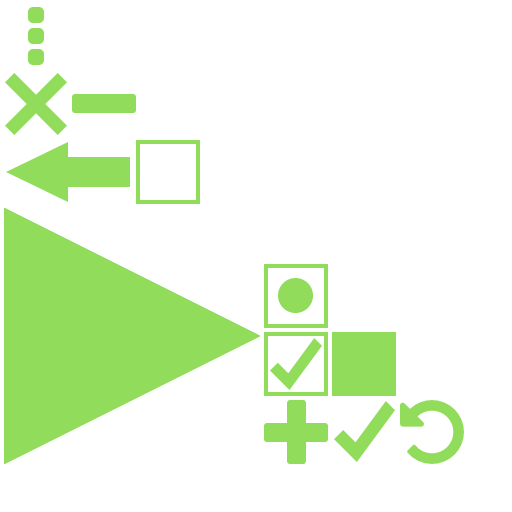
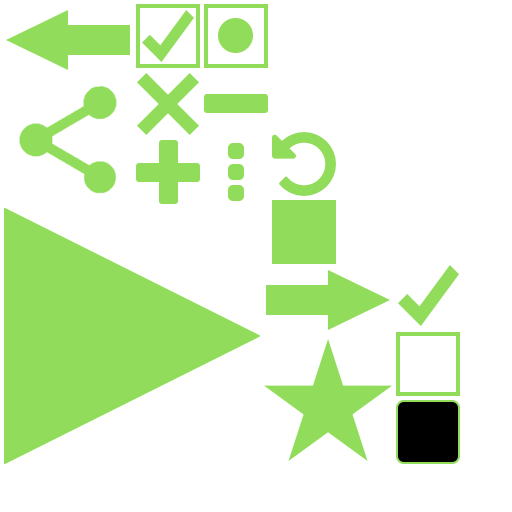
Added a WinDialog to the GameScreen. Changed the GameScreen's button stage to a general hud stage. Changed the look of buttons and dialogs.

Changed region(s): [[0.5, 0.25, 0.9062, 0.9062], [0.0, 0.0, 0.5312, 0.4062], [0.4375, 0.2812, 0.5, 0.4062]]

diff --git a/core/src/com/mare5x/chargehockey/GameScreen.java b/core/src/com/mare5x/chargehockey/GameScreen.java
@@ -9,9 +9,15 @@ import com.badlogic.gdx.graphics.GL20;
 import com.badlogic.gdx.graphics.OrthographicCamera;
 import com.badlogic.gdx.input.GestureDetector;
 import com.badlogic.gdx.math.Vector2;
+import com.badlogic.gdx.scenes.scene2d.Actor;
 import com.badlogic.gdx.scenes.scene2d.InputEvent;
+import com.badlogic.gdx.scenes.scene2d.InputListener;
 import com.badlogic.gdx.scenes.scene2d.Stage;
 import com.badlogic.gdx.scenes.scene2d.ui.Button;
+import com.badlogic.gdx.scenes.scene2d.ui.Dialog;
+import com.badlogic.gdx.scenes.scene2d.ui.Image;
+import com.badlogic.gdx.scenes.scene2d.ui.Label;
+import com.badlogic.gdx.scenes.scene2d.ui.Skin;
 import com.badlogic.gdx.scenes.scene2d.ui.Table;
 import com.badlogic.gdx.scenes.scene2d.ui.Value;
 import com.badlogic.gdx.scenes.scene2d.utils.ClickListener;
@@ -21,11 +27,15 @@ import com.badlogic.gdx.utils.viewport.StretchViewport;
 
 
 class GameScreen implements Screen {
+    private enum WinDialogBUTTON {
+        BACK, SHARE, NEXT
+    }
+
     private final ChargeHockeyGame game;
 
     private final GameLogic game_logic;
 
-    private final Stage game_stage, button_stage;
+    private final Stage game_stage, hud_stage;
     private final OrthographicCamera camera;
     private final GameCameraController camera_controller;
 
@@ -52,10 +62,13 @@ class GameScreen implements Screen {
         fbo.set_draw_pucks(false);
         fbo.update(game.batch);
 
+        final WinDialog win_dialog = new WinDialog("WIN", game.skin);
+
         game_logic = new GameLogic(game, game_stage, level, new GameLogic.ResultCallback() {
             @Override
             public void win() {
                 toggle_playing();
+                win_dialog.show(hud_stage);
             }
 
             @Override
@@ -65,7 +78,7 @@ class GameScreen implements Screen {
             }
         });
 
-        button_stage = new Stage(new StretchViewport(Gdx.graphics.getWidth(), Gdx.graphics.getHeight() * 0.2f), game.batch);
+        hud_stage = new Stage(new StretchViewport(Gdx.graphics.getWidth(), Gdx.graphics.getHeight()), game.batch);
 
         final Button menu_button = new Button(game.skin, "menu");
         menu_button.addListener(new ClickListener() {
@@ -103,15 +116,20 @@ class GameScreen implements Screen {
         });
         play_button.pad(10);
 
+        Table hud_table = new Table();
+        hud_table.setFillParent(true);
+
         Table button_table = new Table();
-        button_table.setFillParent(true);
         button_table.setBackground(game.skin.getDrawable("pixels/px_black"));
         button_table.add(play_button).size(Value.percentHeight(0.5f, button_table)).uniform().pad(15);
         button_table.add(charge_pos_button).pad(15).uniform().fill();
         button_table.add(charge_neg_button).pad(15).uniform().fill();
         button_table.add(menu_button).pad(15).uniform().fill();
 
-        button_stage.addActor(button_table);
+        hud_table.add().expand().fill().row();
+        hud_table.add(button_table).height(Value.percentHeight(0.2f, hud_table)).expandX().fill();
+
+        hud_stage.addActor(hud_table);
 
         camera_controller = new GameCameraController(camera);
         InputAdapter back_key_processor = new InputAdapter() {  // same as menu_button
@@ -123,7 +141,7 @@ class GameScreen implements Screen {
                 return true;
             }
         };
-        multiplexer = new InputMultiplexer(game_stage, new GestureDetector(camera_controller), button_stage, back_key_processor);
+        multiplexer = new InputMultiplexer(hud_stage, game_stage, new GestureDetector(camera_controller), back_key_processor);
     }
 
     private void toggle_playing() {
@@ -151,6 +169,7 @@ class GameScreen implements Screen {
 
     void restart_level() {
         game_logic.reset();
+        fbo.update(game.batch);
     }
 
     @Override
@@ -200,16 +219,16 @@ class GameScreen implements Screen {
 
         game_stage.draw();
 
-        button_stage.getViewport().apply();
-        button_stage.act();
-        button_stage.draw();
+        hud_stage.getViewport().apply();
+        hud_stage.act();
+        hud_stage.draw();
     }
 
     @Override
     public void resize(int width, int height) {
         game_stage.getViewport().setScreenBounds(0, (int) (height * 0.2f), width, (int) (height * 0.8f));
 
-        button_stage.getViewport().setScreenBounds(0, 0, width, (int) (height * 0.2f));
+        hud_stage.getViewport().setScreenBounds(0, 0, width, height);
 
         Gdx.graphics.requestRendering();
     }
@@ -236,7 +255,7 @@ class GameScreen implements Screen {
     public void dispose() {
         fbo.dispose();
         game_stage.dispose();
-        button_stage.dispose();
+        hud_stage.dispose();
     }
 
     private class GameCameraController extends CameraController {
@@ -277,5 +296,96 @@ class GameScreen implements Screen {
             else
                 setStyle(play_style);
         }
+    }
+
+    private class WinDialog extends Dialog {
+        WinDialog(String title, Skin skin) {
+            super(title, skin);
+
+            setModal(true);
+            setMovable(false);
+
+            pad(15 * ChargeHockeyGame.DENSITY);
+
+            getTitleTable().clear();  // hide the dumb title
+
+            Table content_table = getContentTable();
+
+            Label level_passed_label = new Label("LEVEL PASSED!", game.skin, "borderless");
+            content_table.add(level_passed_label).padBottom(10).row();
+            content_table.add(new Image(game.skin.getDrawable("star"))).size(percent_width(0.3f)).pad(10);
+
+            Table button_table = getButtonTable();
+
+            Button back_button = new Button(skin, "back");
+            back_button.pad(10);
+
+            button_table.add(back_button).pad(15).size(percent_width(0.2f), percent_width(0.1f)).padRight(30 * ChargeHockeyGame.DENSITY);
+            setObject(back_button, WinDialogBUTTON.BACK);
+
+//            TextButton next_level_button = new TextButton("NEXT LEVEL", skin);
+            Button next_level_button = new Button(skin, "forward");
+            button_table.add(next_level_button).pad(15).size(percent_width(0.2f), percent_width(0.1f));
+            setObject(next_level_button, WinDialogBUTTON.NEXT);
+
+            button_table.row();
+
+//            TextButton share_button = new TextButton("SHARE", skin);
+//            Button share_button = new Button(skin, "share");
+//            button_table.add(share_button).pad(15).size(percent_width(0.1f)).colspan(2).expandX().center();
+//            setObject(share_button, WinDialogBUTTON.SHARE);
+
+            addListener(new InputListener() {
+                @Override
+                public boolean keyUp(InputEvent event, int keycode) {
+                    if (keycode == Input.Keys.BACK) {
+                        result(WinDialogBUTTON.BACK);
+                    }
+                    return true;
+                }
+            });
+        }
+
+        @Override
+        public Dialog show(Stage stage) {
+            super.show(stage);
+
+            return this;
+        }
+
+        @Override
+        protected void result(Object object) {
+            hide();
+
+            if (object == WinDialogBUTTON.BACK) {
+                Gdx.app.log("WinDialog", "BACK");
+            } else if (object == WinDialogBUTTON.SHARE) {
+                Gdx.app.log("WinDialog", "SHARE");
+            } else if (object == WinDialogBUTTON.NEXT) {
+                Gdx.app.log("WinDialog", "NEXT");
+
+                dispose();
+                game.setScreen(new LevelSelectorScreen(game, LEVEL_TYPE.CUSTOM));
+            }
+        }
+
+        private Value percent_width(final float percent) {
+            return new Value() {
+                @Override
+                public float get(Actor context) {
+                    return percent * hud_stage.getWidth();
+                }
+            };
+        }
+
+//        @Override
+//        public float getPrefWidth() {
+//            return hud_stage.getWidth() * 0.75f;
+//        }
+//
+//        @Override
+//        public float getPrefHeight() {
+//            return hud_stage.getHeight() * 0.5f;
+//        }
     }
 }

diff --git a/core/src/com/mare5x/chargehockey/EditorMenuScreen.java b/core/src/com/mare5x/chargehockey/EditorMenuScreen.java
@@ -6,6 +6,7 @@ import com.badlogic.gdx.InputAdapter;
 import com.badlogic.gdx.InputMultiplexer;
 import com.badlogic.gdx.Screen;
 import com.badlogic.gdx.graphics.GL20;
+import com.badlogic.gdx.scenes.scene2d.Actor;
 import com.badlogic.gdx.scenes.scene2d.InputEvent;
 import com.badlogic.gdx.scenes.scene2d.Stage;
 import com.badlogic.gdx.scenes.scene2d.ui.Button;
@@ -35,6 +36,7 @@ class EditorMenuScreen implements Screen {
         this.game = game;
 
         stage = new Stage(new StretchViewport(Gdx.graphics.getWidth(), Gdx.graphics.getHeight()), game.batch);
+//        stage.setDebugAll(true);
 
         input_dialog = new InputDialog("ADD LEVEL", game.skin);
 
@@ -157,8 +159,20 @@ class EditorMenuScreen implements Screen {
         InputDialog(String title, Skin skin) {
             super(title, skin);
 
+            setModal(true);
+            setResizable(false);
+            setMovable(false);
+
+            pad(15 * ChargeHockeyGame.DENSITY);
+            padTop(game.skin.getFont("font").getLineHeight() * 2);
+
+//            getTitleTable().pad(game.skin.getFont("font").getLineHeight());
+//            getTitleTable().clear();
+
+            getContentTable().pad(15 * ChargeHockeyGame.DENSITY);
+
             name_input = new TextField("LEVEL NAME", game.skin);
-            getContentTable().add(name_input).pad(15 * ChargeHockeyGame.DENSITY).width(Value.percentWidth(0.8f, this)).expandX();
+            getContentTable().add(name_input).width(Value.percentWidth(0.8f, this)).expandX();
 
             Button cancel_button = new Button(game.skin, "cancel");
             cancel_button.pad(10);
@@ -168,11 +182,7 @@ class EditorMenuScreen implements Screen {
             button(cancel_button, DIALOG_BUTTON.CANCEL);
             button(confirm_button, DIALOG_BUTTON.CONFIRM);
 
-            getTitleTable().pad(10 * ChargeHockeyGame.DENSITY);
-            getContentTable().pad(10 * ChargeHockeyGame.DENSITY);
-            getButtonTable().pad(10 * ChargeHockeyGame.DENSITY);
-
-            Value size = Value.percentHeight(3, name_input);
+            Value size = percent_width(0.2f);
             getButtonTable().getCell(cancel_button).size(size);
             getButtonTable().getCell(confirm_button).size(size);
         }
@@ -196,6 +206,16 @@ class EditorMenuScreen implements Screen {
 
             name_input.getOnscreenKeyboard().show(false);
             hide();
+        }
+
+
+        private Value percent_width(final float percent) {
+            return new Value() {
+                @Override
+                public float get(Actor context) {
+                    return percent * stage.getWidth();
+                }
+            };
         }
     }
 }

diff --git a/core/src/com/mare5x/chargehockey/LevelSelector.java b/core/src/com/mare5x/chargehockey/LevelSelector.java
@@ -97,7 +97,7 @@ class LevelSelector {
     }
 
     void add_level(String level_name) {
-        if (!level_exists(level_name)) {
+        if (!level_name.isEmpty() && !level_exists(level_name)) {
             list.getItems().add(level_name);
             list.invalidateHierarchy();  // reset the layout (add scroll bars to scroll pane)
         }
